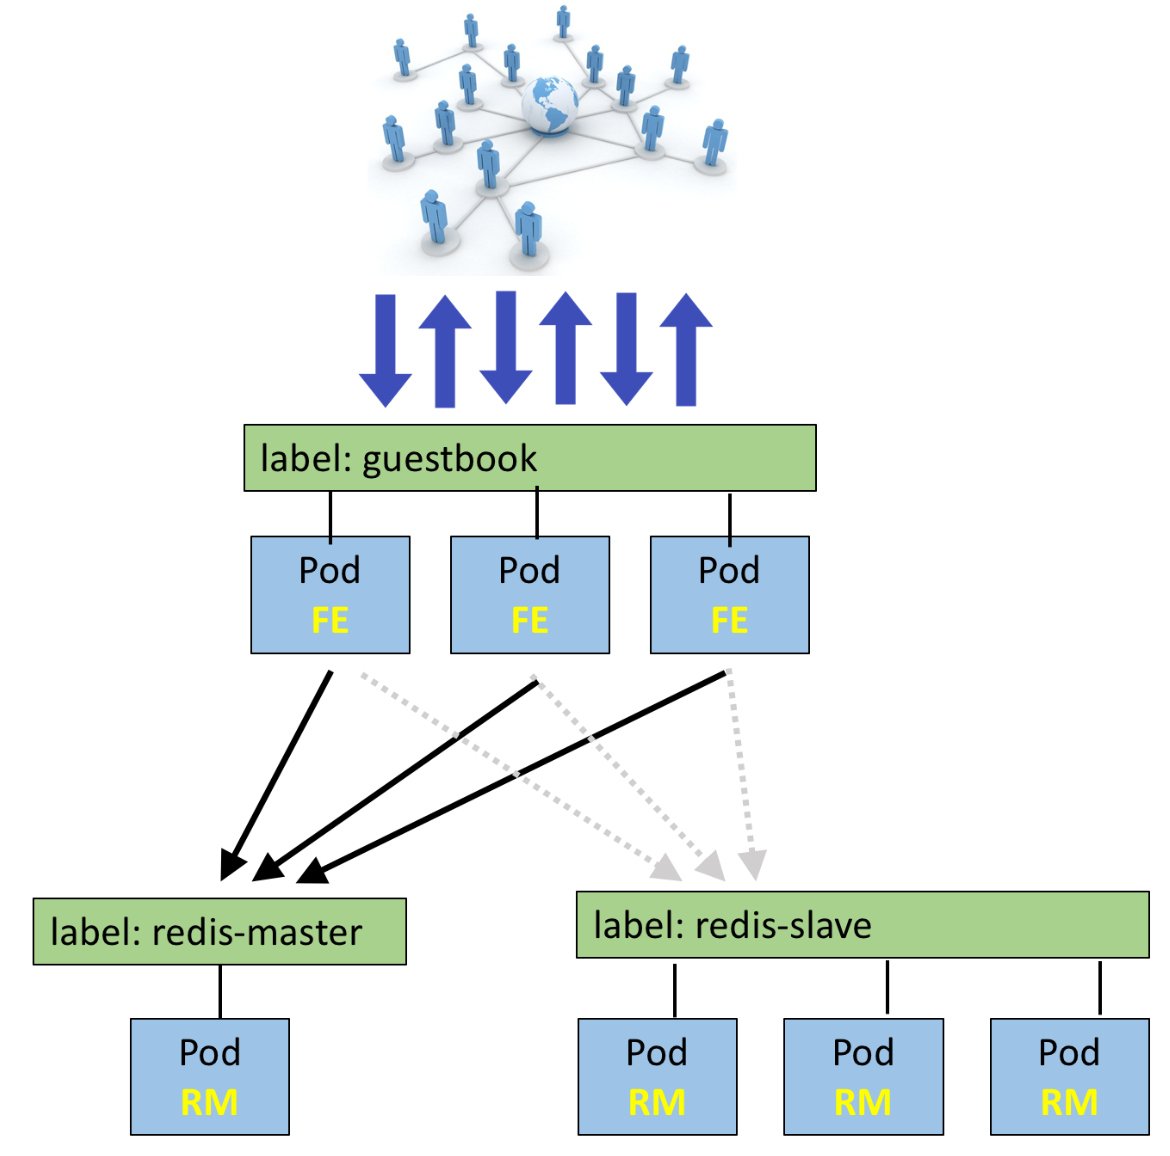
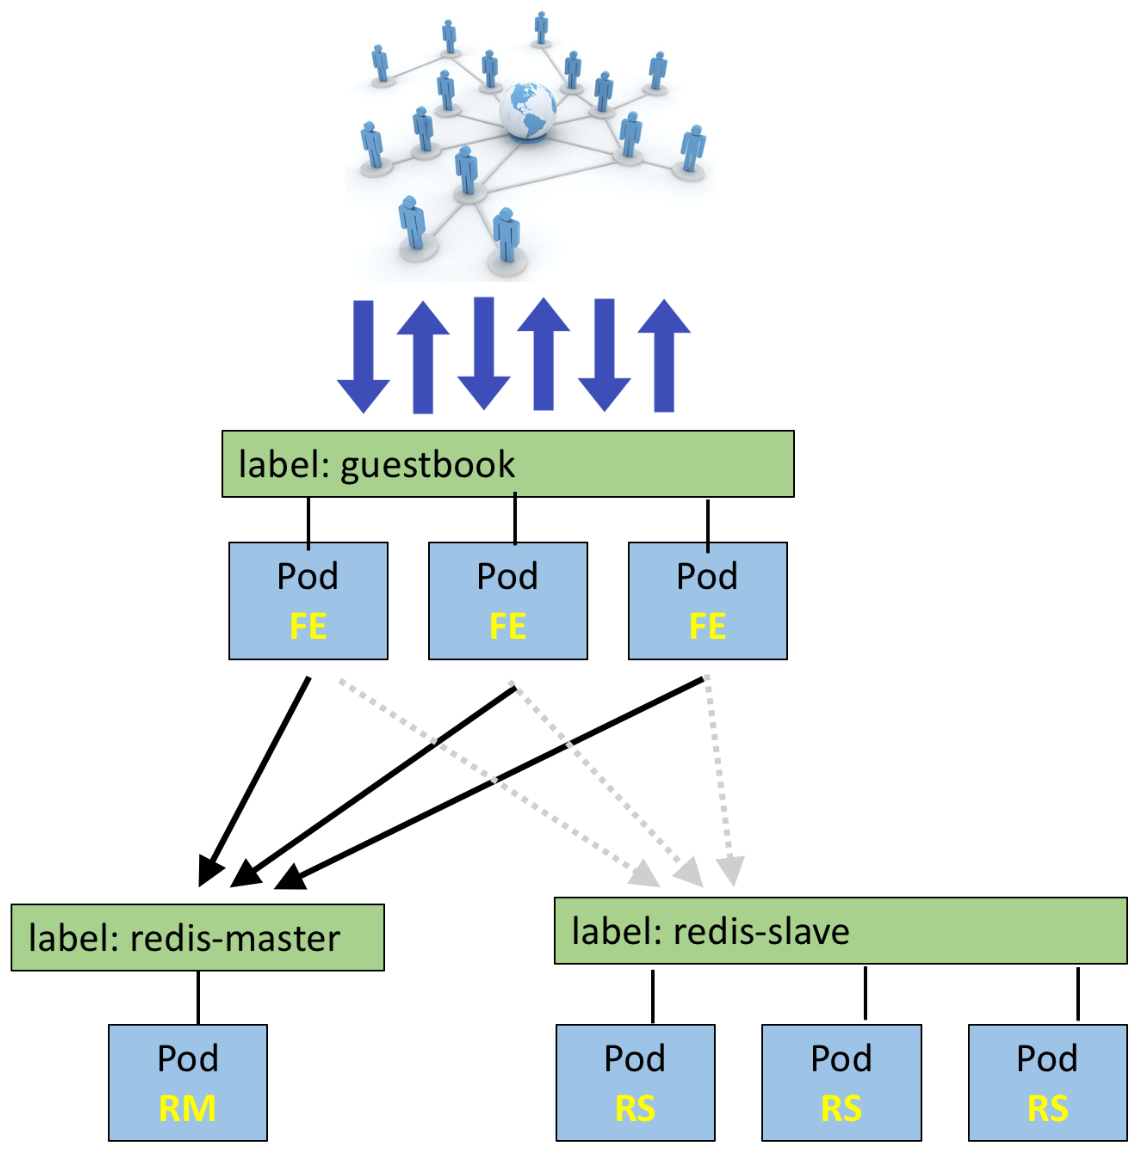
fixed RM > RS

Changed region(s): [[0.0, 0.0, 1.0, 0.9965], [0.6743, 0.4671, 0.7049, 0.5606], [0.1839, 0.4671, 0.2145, 0.5606]]

diff --git a/README.md b/README.md
@@ -19,11 +19,12 @@ It is recommended to first print the [Reference](/reference.md) page. This way y
 ## Labs
 
 * [Environment Setup](00-Setup/README.md) - This lab covers setting up your workstation or logging into our lab machines to get started.  
-* [Installation Lab](01-Install/README.md) - This lab covers installing Kubernetes.  We use a Terraform script to bring it up quickly.  Its done on Metacloud. 
-* [Configuration Lab](02-Config/README.md) - This lab covers getting ```kubectl``` configured to work with our lab environment as well as the final touches of networking required to make our kubernetes cluster functional.  
-* [Running Lab](03-Running/README.md) - WIP
-* [CI/CD Lab](04-CICD/README.md) - WIP
-* [Monitoring](05-Monitor/README.md) - WIP
+* [Metacloud Introduction](01-Metacloud/README.md) - This lab covers installing Kubernetes.  We use a Terraform script to bring it up quickly.  Its done on Metacloud.
+* [Installation Lab](02-Install/README.md) - This lab covers installing Kubernetes.  We use a Terraform script to bring it up quickly.  Its done on Metacloud. 
+* [Configuration Lab](03-Config/README.md) - This lab covers getting ```kubectl``` configured to work with our lab environment as well as the final touches of networking required to make our kubernetes cluster functional.  
+* [Running Kubernetes](04-Running/README.md) - This lab covers deploying and managing applications in our operational kubernetes environment. 
+* [CI/CD Lab](05-CICD/README.md) - WIP
+* [Monitoring](06-Monitor/README.md) - WIP
 
 
 
